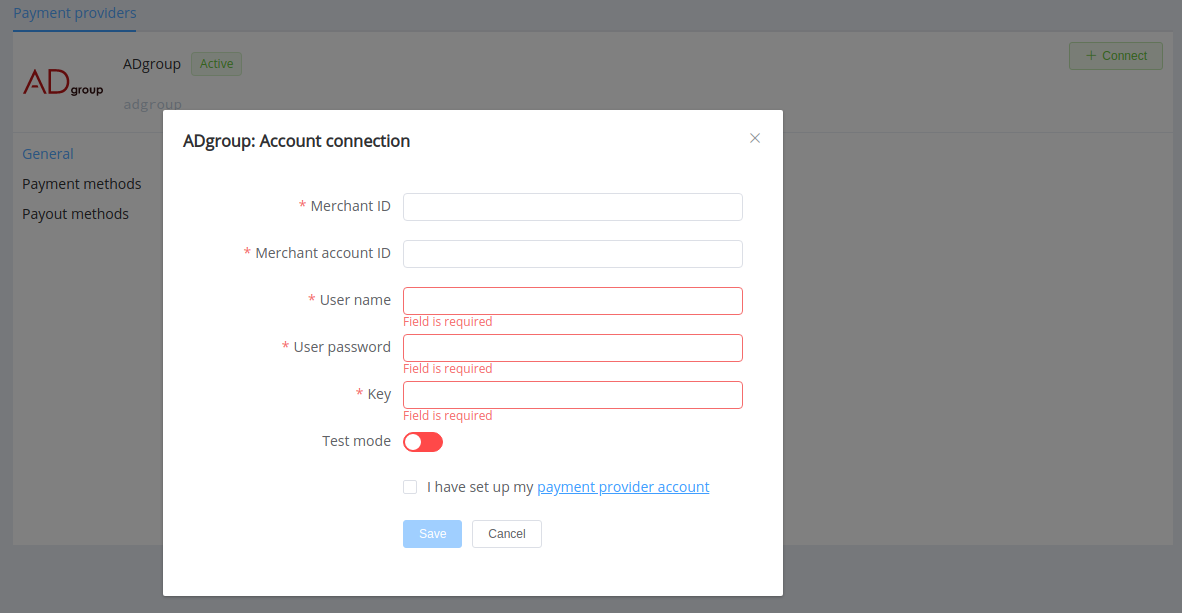
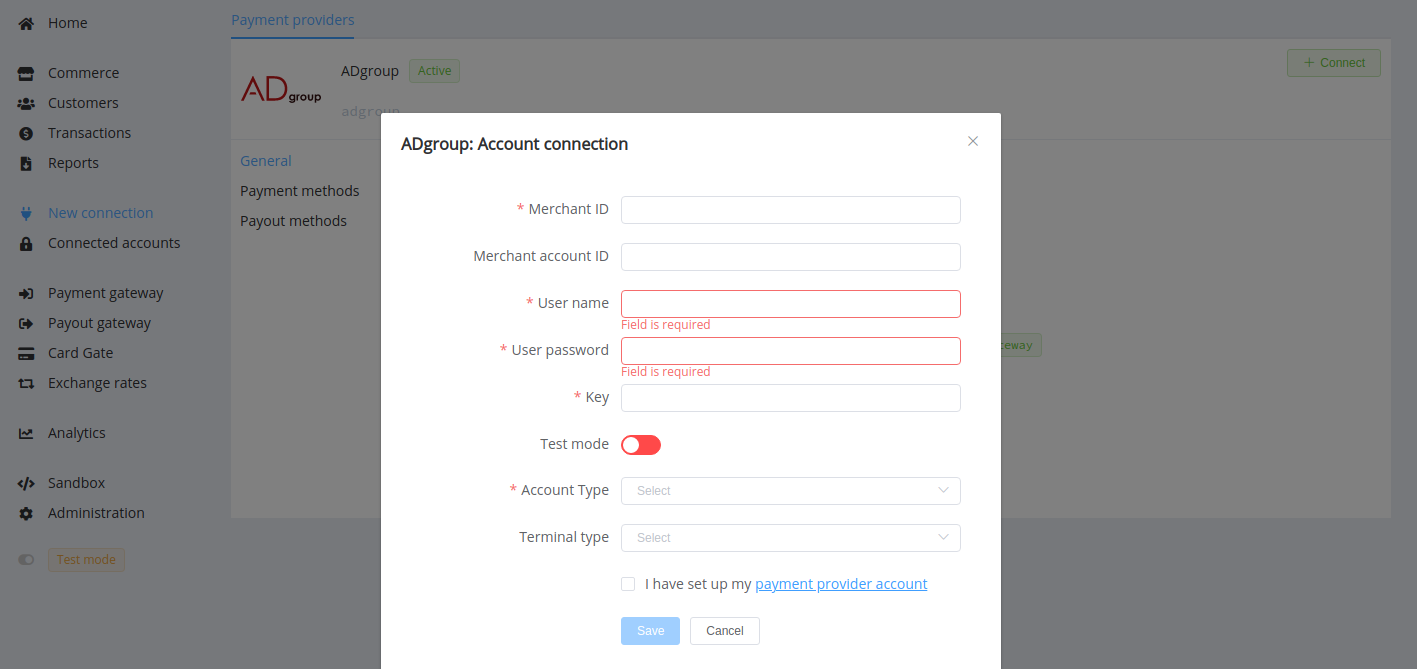
update guides

diff --git a/docs/connectors/anycash/index.md b/docs/connectors/anycash/index.md
@@ -1,54 +1,47 @@
 <img src="https://static.openfintech.io/payment_providers/anycash/logo.svg?w=400" width="400px">
 
-# AnyCash Connector
+# AnyCash
 
-## Introduction
+!!! quote ""
+    Convenient and secure digital wallet on Telegram
 
-Here You can find  instructions for setting up [**AnyCash** account](https://any.cash/)! 
+**Website**: [any.cash](https://any.cash/en)
 
-## Setup account
+## Set Up account
 
-#### Step 1: Create AnyCash wallet
+### Step 1: Create AnyCash wallet
 
-!!! note
-    Before creating You must have [**Telegram** account](https://web.telegram.org) with presetted ```@User name```
+!!! note ""
+    Since this digital wallet for sending funds with Telegram, you should have your trusted account in this messenger.
 
--  Press "Create Wallet" button
--  Run commant ```/start```
+Press the *'Create Wallet'* button or find `@AnyCashBot` directly on Telegram. Run `/start`
 
-    ![Step 1](images/anycash-step1.png)
+![Step 1](images/anycash-step1.png)
     
-    ![Step 1](images/anycash-step1_1.png)
+![Step 1](images/anycash-step1_1.png)
 
-#### Step 2: Contact with AnyCash Manager
+### Step 2: Contact AnyCash Manager and get required credentials
 
-This Payment Provoider gives account credentials personaly to their merchants!
-    
-#### Step 3: Get required credentials
+Credentials that have to be issued:
+
+* Merchant ID
+* Signature key
+
+## Connect Account
+
+### Step 1. Connect account at the {{custom.company_name}} Dashboard
+
+Press **Connect** at [*Any.Cash Provider Overview*]({{custom.dashboard_base_url}}connect-directory/payment-providers/anycash/general) page in *'New connection'* and choose **Provider account** option to open Connection form.
+
+![Connect](images/provider-account.png)
+
+Enter credentials:
+
+* Merchant ID --> Merchant
+* Signature key
 
 !!! success
-    You are ready to connect!
-    
-## Connect account
+    You have connected **Any.Cash** account!
 
-#### Step 1: Copy credentials
-
--  Merchant ID
--  Signature key
-
-#### Step 2: Enter credentials
-
--  Merchant ID
--  Signature key
-
-
-!!! tip
-    Press **`Connect`** at AnyCash **`Provider Overview page`** in **`New connection`** section to open Connection form!
-
-
-
-![Connect](images/anycash_connect.png)
-
-
-!!! success
-    You have connected **AnyCash**!
+!!! question "Still looking for help connecting your Any.Cash account?"
+    [Please contact our support team!](mailto:{{custom.support_email}})

diff --git a/docs/connectors/adgroup/index.md b/docs/connectors/adgroup/index.md
@@ -2,10 +2,11 @@
 
 # ADgroup
 
-> Payment Processor for Merchants and host2host provider for other processors all in one
+!!! quote ""
+
+    Payment Processor for Merchants and host2host provider for other processors all in one
 
 **Website**: [adgroup.finance](https://adgroup.finance/en/)
-
 
 Follow the guidance for setting up a connection with ADgroup payment service provider.
 
@@ -18,6 +19,8 @@ Send a request on the [adgroup.finance](https://adgroup.finance/en/). Submit the
 ### Step 2: Check your contact email for credentials
 
 ![Email](images/email.png)
+
+You also should be informed about your Account type and Terminal type.
 
 ## Connect Provider Account
 
@@ -35,7 +38,7 @@ Enter credentials to access the API:
 * Merchant Account Password --> User Password
 * Merchant Account Key --> Key
 
-Also, choose *Test Mode* for test connection with ADgroup.
+Also, choose *Test Mode* for test connection with ADgroup. Specify your Account type and Terminal type.
 
 !!! success
     You have connected **ADgroup** account!

diff --git a/docs/products/batch-payouts/index.md b/docs/products/batch-payouts/index.md
@@ -45,11 +45,10 @@ You can also add columns for objects with client data: `customer` and `customer_
 ??? example "Example of a batch payout table"
 
     ```csv
-    service;service_amount;fields/card_number;reference_id
-    payment_card_uah;1.9;4000000000000010;salary111
-    payment_card_usd;1.54;4000000000000002;salary112
-    payment_card_uah;0.7;5555555555554444;salary113
-    payment_card_usd;1;4300000000000777;salary114
+    service,service_amount,fields_data,reference_id,description,customer,customer_metadata
+    test_usd,100,account:587964,BI10,test,reference_id:example_ref1;email:test@example.com;phone:+12345678945;name:John S,
+    swift_usd,1,swift_code:TESTUAUKXXX;account_number:GB94BARC193459;recipient_name:John;country_code:UA;address:Kyiv;purpose:test,BI20,test swift,reference_id:example_ref1,key:value;know:nothing
+    payment_card_usd,50,card_number:5519283812030000,BI30,test cards,,
     ```
 
 [The same example as a CSV file -->](batch-example.csv)
